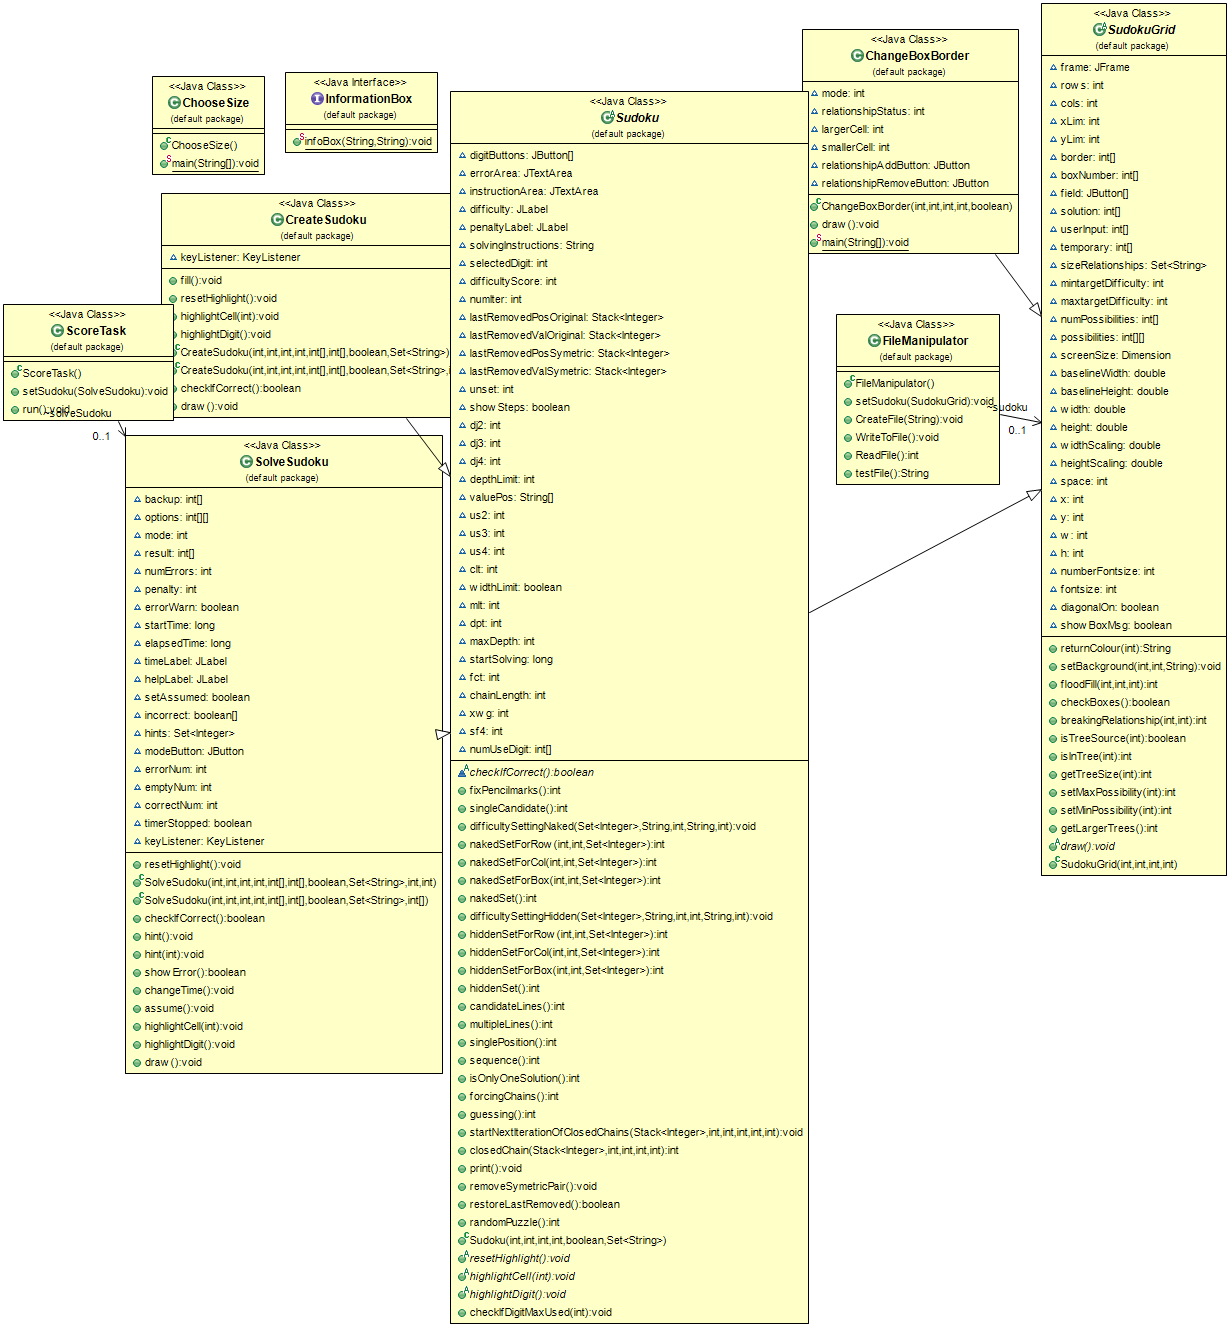
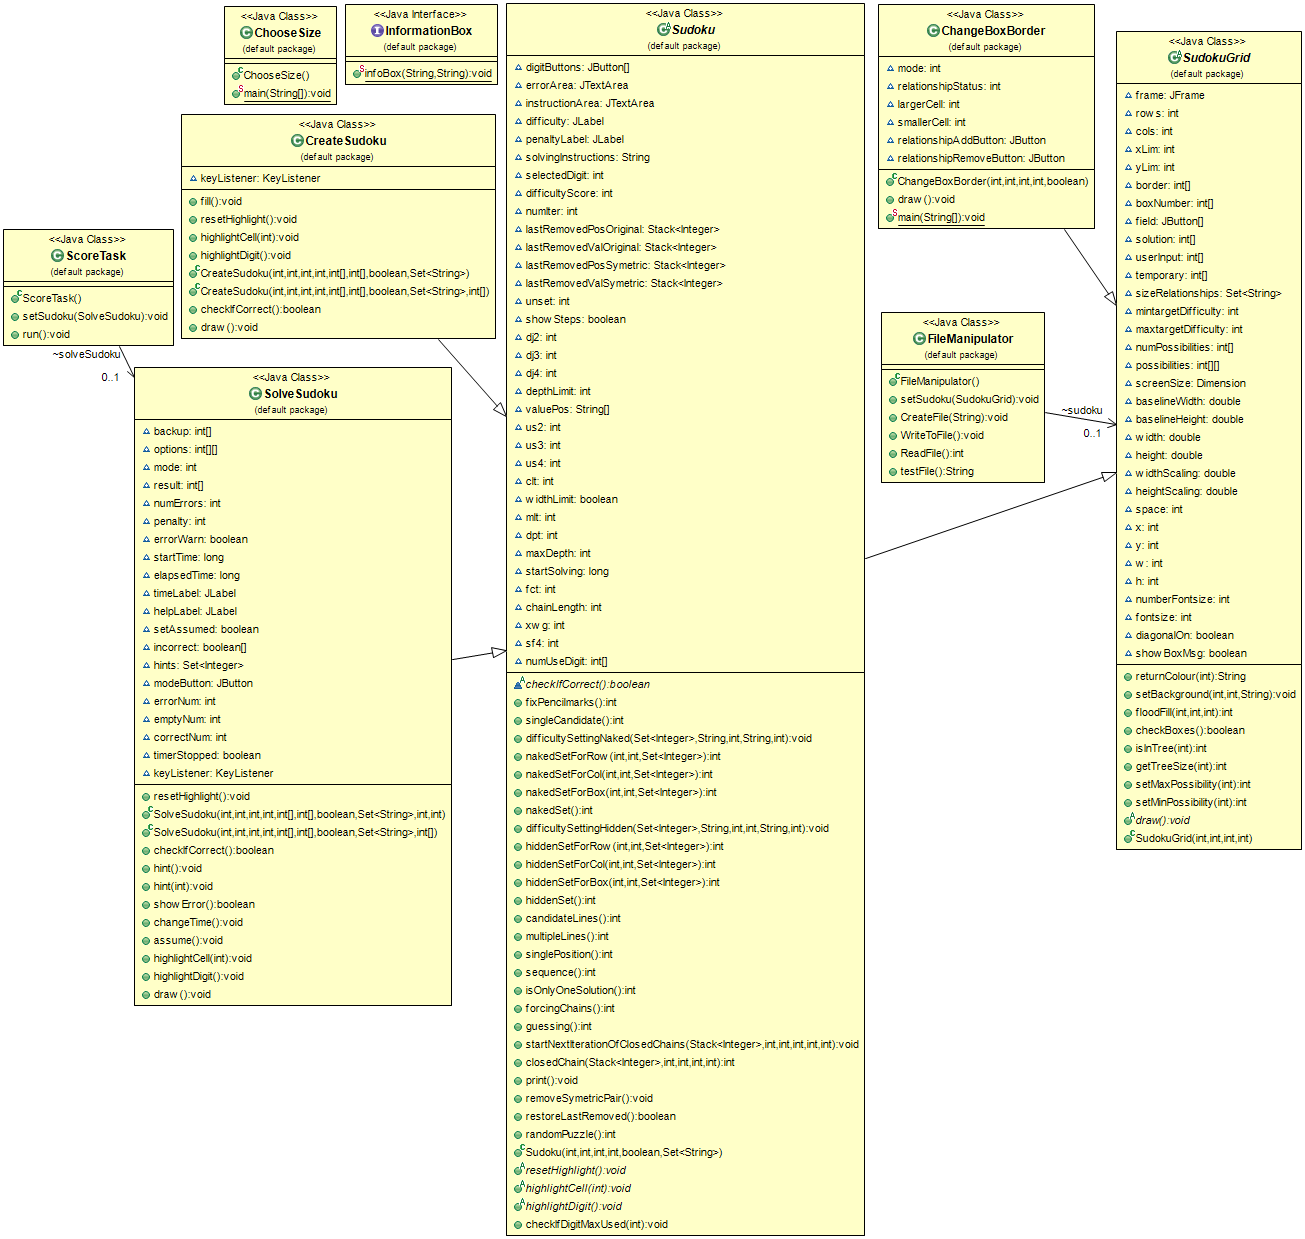
Ažuriran UML Class dijagram

Changed region(s): [[0.0, 0.0, 1.0, 1.0]]

diff --git a/src/SudokuGrid.java b/src/SudokuGrid.java
@@ -315,7 +315,7 @@ public abstract class SudokuGrid {
 	    return retVal;
 	}
 
-	public int breakingRelationship(int numCell, int val) {
+	/*public int breakingRelationship(int numCell, int val) {
 		int rightCell = numCell + 1;
 		if (rightCell < rows * cols) {
 			String relationshipRightCell = String.valueOf(numCell) + " " + String.valueOf(rightCell);
@@ -361,10 +361,10 @@ public abstract class SudokuGrid {
 			} 
 		}
 		return 0;
-	}
+	}*/
 	
 	
-	public boolean isTreeSource(int numCell) {
+	/*public boolean isTreeSource(int numCell) {
 		boolean isSource = false;
 		int rightCell = numCell + 1;
 		if (rightCell < rows * cols) {
@@ -411,7 +411,7 @@ public abstract class SudokuGrid {
 			} 
 		}
 		return isSource;
-	}
+	}*/
 
 	public int isInTree(int numCell) {
 		int rightCell = numCell + 1;
@@ -650,7 +650,7 @@ public abstract class SudokuGrid {
 	}
 	
 	
-	public int getLargerTrees() {
+	/*public int getLargerTrees() {
 	    for (int row = 0; row < rows; row++){ 
 	    	for (int col = 0; col < cols; col++) {
 	    		int numCell = row * cols + col;
@@ -663,7 +663,7 @@ public abstract class SudokuGrid {
 	    	}
 	    }
 	    return 0;
-	}
+	}*/
 
 
 	abstract public void draw();
